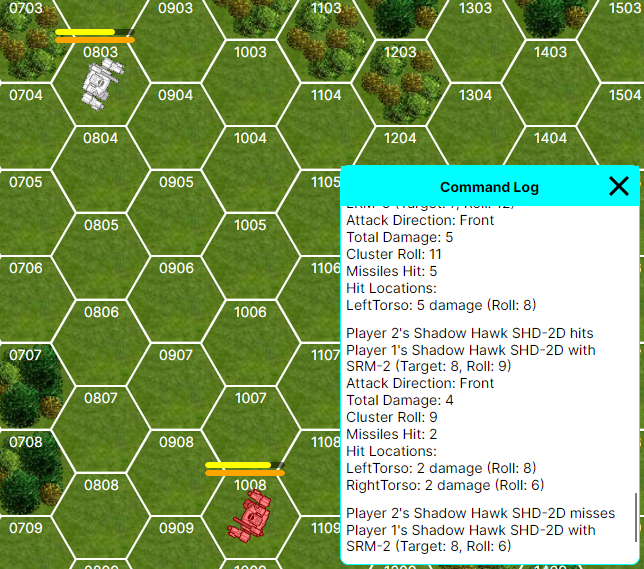
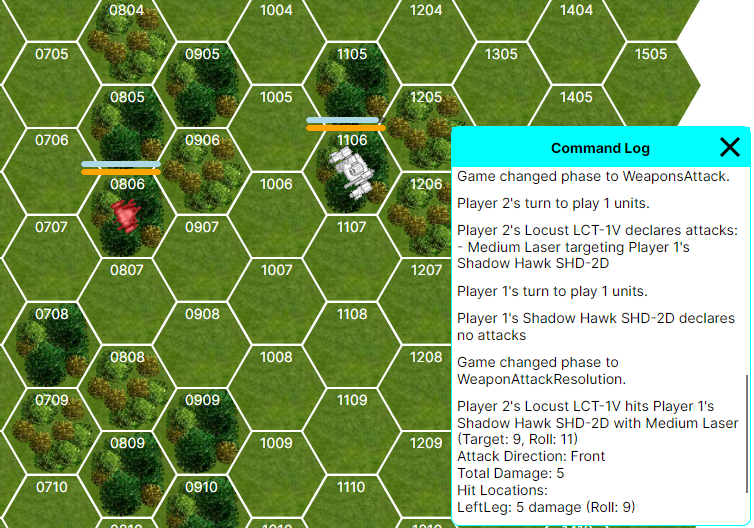
feat: align armor bar color with recorsheet graph

diff --git a/src/MekForge.Avalonia/MekForge.Avalonia/Controls/UnitControl.cs b/src/MekForge.Avalonia/MekForge.Avalonia/Controls/UnitControl.cs
@@ -88,7 +88,7 @@ namespace Sanet.MekForge.Avalonia.Controls
             // Create armor bar (yellow)
             _armorBar = new ProgressBar
             {
-                Foreground = new SolidColorBrush(Colors.Yellow),
+                Foreground = new SolidColorBrush(Colors.LightBlue),
                 Background = new SolidColorBrush(Color.FromArgb(128, 0, 0, 0)),
                 Height = 6,
                 MinWidth = 0,
